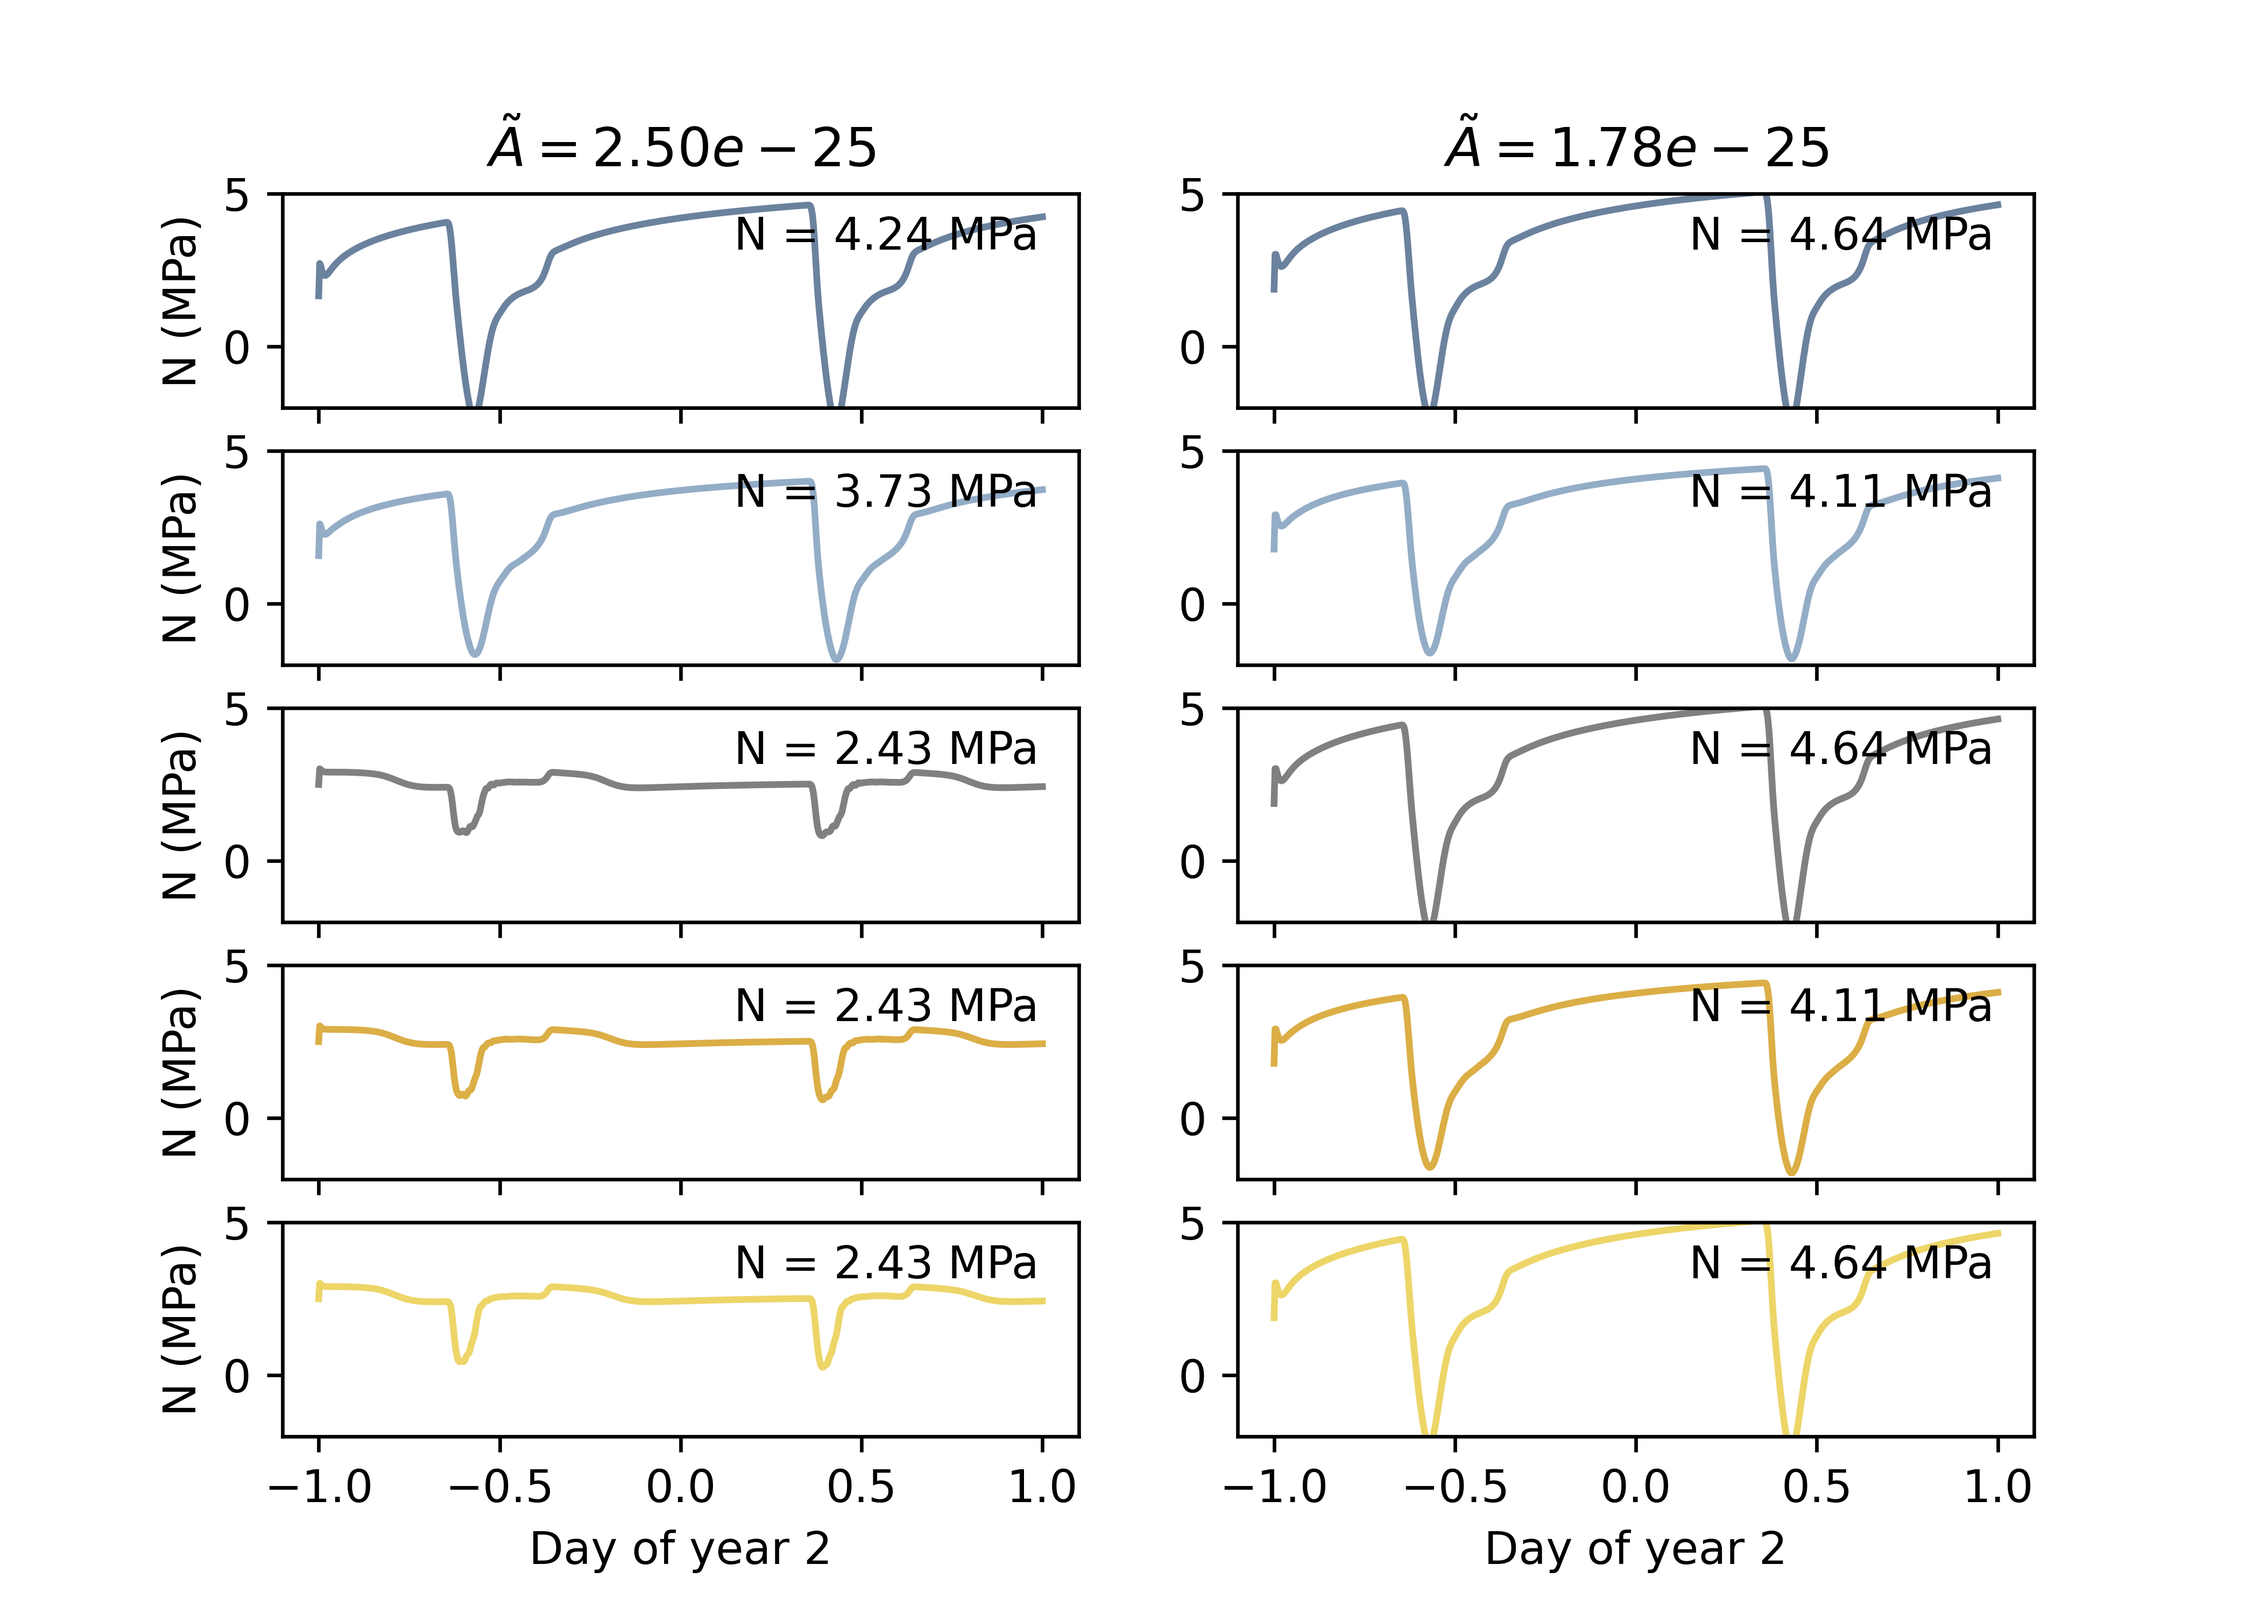
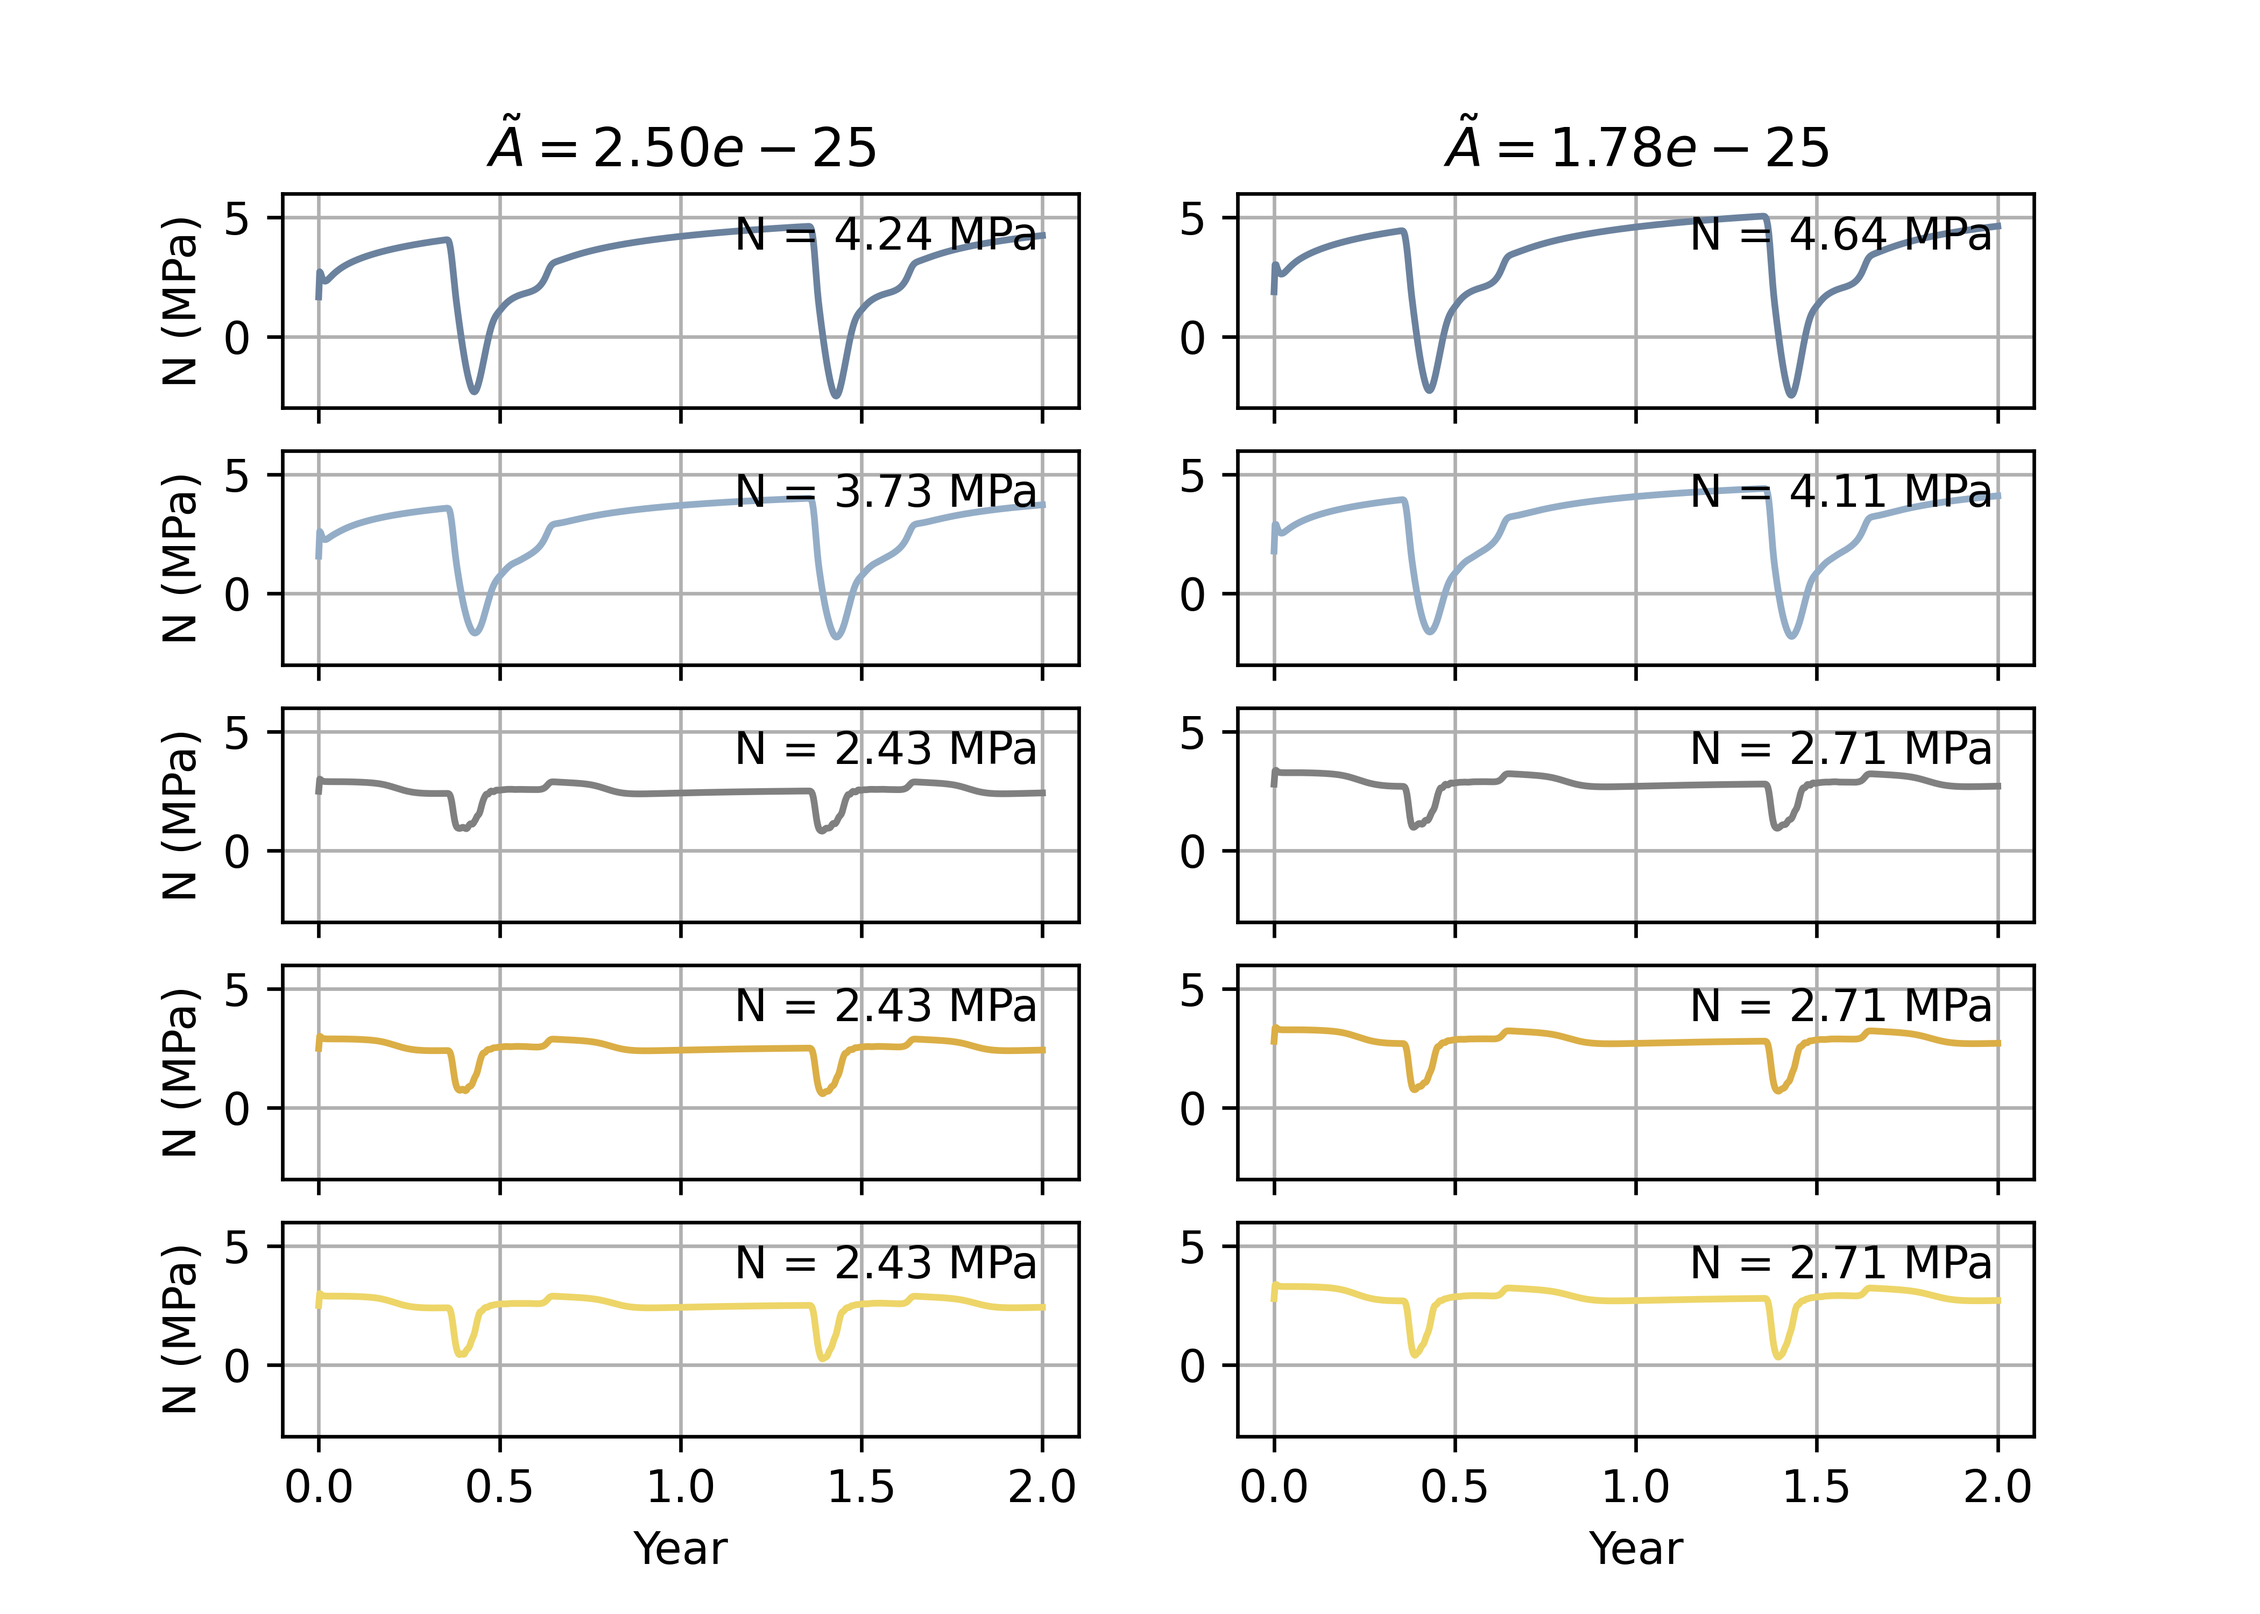
Seasonal creep const figure

diff --git a/analysis/compare_creep_const.py b/analysis/compare_creep_const.py
@@ -13,7 +13,7 @@ cases_creep_glads = [201, 202, 203, 204, 205]
 fnames_creep_glads = [pattern_creep_glads % caseid for caseid in cases_creep_glads]
 
 pattern_creep_paterson = '../glads/00b_shmip_forcing_shmip_topo_creep_const/RUN/output_%03d_seasonal.nc'
-cases_creep_paterson = [1, 2, 1, 2, 1]
+cases_creep_paterson = [1, 2, 3, 4, 5]
 fnames_creep_paterson = [pattern_creep_paterson % caseid for caseid in cases_creep_paterson]
 
 xb = 30e3
@@ -47,13 +47,15 @@ for ii in range(len(fnames_creep_glads)):
     Q_paterson = np.abs(out_paterson['Q'][:].data.T)
 
     tt = out_glads['time'][:].data.T
-    time = tt/365/86400 - 101
+    time = tt/365/86400 - 100
 
     ax1.plot(time, np.mean(N_glads[node_mask, :], axis=0)/1e6, color=colors[ii])
     ax2.plot(time, np.mean(N_paterson[node_mask, :], axis=0)/1e6, color=colors[ii])
 
-    ax1.set_ylim([-2, 5])
-    ax2.set_ylim([-2, 5])
+    ax1.set_ylim([-3, 6])
+    ax2.set_ylim([-3, 6])
+    ax1.grid()
+    ax2.grid()
 
     creep_glads = out_glads['para/creep_const_s'][:].data
     creep_paterson = out_paterson['para/creep_const_s'][:].data
@@ -73,8 +75,8 @@ for ii in range(len(fnames_creep_glads)):
     ax1.text(0.95, 0.9, 'N = %.2f MPa' % (N_mean_glads[-1]/1e6), transform=ax1.transAxes, ha='right', va='top')
     ax2.text(0.95, 0.9, 'N = %.2f MPa' % (N_mean_paterson[-1]/1e6), transform=ax2.transAxes, ha='right', va='top')
 
-ax1.set_xlabel('Day of year 2')
-ax2.set_xlabel('Day of year 2')
+ax1.set_xlabel('Year')
+ax2.set_xlabel('Year')
 
 fig.savefig('seasonal_creep_comparison.png', dpi=600)
 
